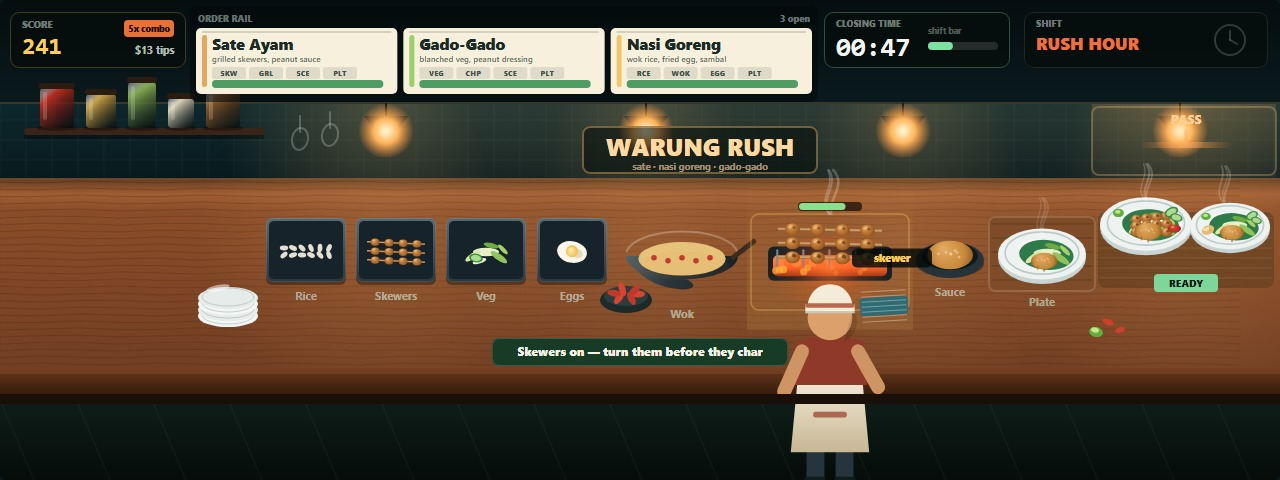
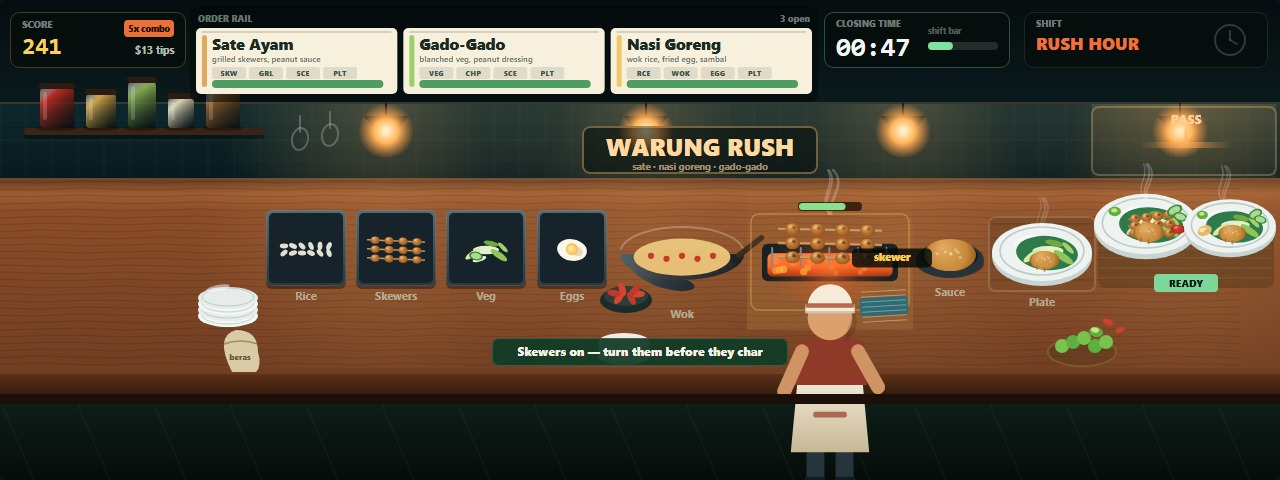
Closer cover camera, denser counter, bigger plates

diff --git a/game/src/kitchen.js b/game/src/kitchen.js
@@ -151,7 +151,7 @@ export function partsOf(state) {
 
 export function drawScene(c, state, t, opts = {}) {
   drawHeader(c);
-  drawWall(c, t);
+  drawWall(c, t, opts);
   drawCounter(c, state, t);
   drawFloor(c);
   drawChef(c, state, t, opts);
@@ -170,7 +170,7 @@ function drawHeader(c) {
   c.fillRect(0, LAYOUT.bandBottom - 2, 1280, 2);
 }
 
-function drawWall(c, t) {
+function drawWall(c, t, opts = {}) {
   const y0 = LAYOUT.bandBottom;
   const h = LAYOUT.wallBottom - y0;
   const wg = c.createLinearGradient(0, y0, 0, LAYOUT.wallBottom);
@@ -233,8 +233,8 @@ function drawWall(c, t) {
     c.fill();
   }
 
-  // hand-painted name over the wok
-  paintSign(c, 700, 150, 236, 'WARUNG RUSH');
+  // hand-painted name over the wok (skipped on a zoomed frame, where the rail covers it)
+  if (!opts.zoom) paintSign(c, 700, 150, 236, 'WARUNG RUSH');
   utensil(c, 300, 132);
   utensil(c, 330, 128);
 }
@@ -345,6 +345,43 @@ function drawFloor(c) {
 
 
 function drawProps(c, t) {
+  // the front band: a rice sack, a lime basket, a bowl stack and a hanging ladle
+  c.fillStyle = '#d9cba6';
+  c.beginPath();
+  c.moveTo(232, 372);
+  c.quadraticCurveTo(214, 336, 236, 330);
+  c.quadraticCurveTo(258, 330, 258, 352);
+  c.quadraticCurveTo(262, 366, 256, 372);
+  c.closePath();
+  c.fill();
+  c.strokeStyle = 'rgba(120,95,60,0.6)';
+  c.lineWidth = 1.5;
+  c.beginPath();
+  c.moveTo(224, 344);
+  c.quadraticCurveTo(240, 338, 258, 344);
+  c.stroke();
+  label(c, 'beras', 240, 360, { size: 8, weight: 800, color: '#6b5a3a', align: 'center' });
+  // lime basket
+  c.strokeStyle = '#8a5f2a';
+  c.lineWidth = 2;
+  c.beginPath();
+  c.ellipse(1082, 352, 34, 14, 0, 0, Math.PI * 2);
+  c.stroke();
+  c.fillStyle = 'rgba(80,55,25,0.35)';
+  c.fill();
+  for (let i = 0; i < 5; i++) {
+    c.fillStyle = i % 2 ? '#5fae42' : '#79c24e';
+    c.beginPath();
+    c.arc(1062 + i * 11, 346 - (i % 3) * 4, 7, 0, Math.PI * 2);
+    c.fill();
+  }
+  // stack of bowls
+  for (let i = 0; i < 3; i++) {
+    c.fillStyle = i % 2 ? '#e8ddd0' : '#f3ece2';
+    c.beginPath();
+    c.ellipse(624, 356 - i * 7, 26, 9, 0, 0, Math.PI * 2);
+    c.fill();
+  }
   // a bowl of chilies
   c.fillStyle = '#1d2a2a';
   c.beginPath();
@@ -428,12 +465,12 @@ function drawStation(c, s, state, t) {
 
   const hideLabel = state.chef && Math.abs(state.chef.x - s.x) < 74;
   if (s.kind === 'tray') {
-    tray(c, s.x - s.w / 2, yTop + 18, s.w, 64, s.ing, t);
+    tray(c, s.x - s.w / 2, yTop + 10, s.w, 76, s.ing, t);
     if (!hideLabel) label(c, s.name, s.x, yTop + 100, { size: 11, color: near ? PAL.gold : 'rgba(215,230,220,0.6)', align: 'center', weight: 700 });
   }
 
   if (s.kind === 'wok') {
-    wok(c, s.x, yTop + 56, 56, { heat: state.cooking && state.cooking.station === s.id ? 1 : 0.2, contents: state.wokContents !== false });
+    wok(c, s.x, yTop + 54, 62, { heat: state.cooking && state.cooking.station === s.id ? 1 : 0.2, contents: state.wokContents !== false });
     if (state.cooking && state.cooking.station === s.id) {
       steam(c, s.x, yTop + 26, t, 1.2, 0.45);
       sparks(c, s.x, yTop + 30, t, 5);
@@ -442,7 +479,7 @@ function drawStation(c, s, state, t) {
   }
 
   if (s.kind === 'grill') {
-    grill(c, s.x, yTop + 54, 62, { t });
+    grill(c, s.x, yTop + 52, 68, { t });
     emberGlow(c, s.x, yTop + 70, 78, t);
     // three skewers lying across the grate, close enough to read at thumbnail size
     for (let i = 0; i < 3; i++) {
@@ -465,7 +502,7 @@ function drawStation(c, s, state, t) {
     c.beginPath();
     c.ellipse(s.x, yTop + 56, 28, 14, 0, 0, Math.PI * 2);
     c.fill();
-    peanutSauce(c, s.x, yTop + 55, 23);
+    peanutSauce(c, s.x, yTop + 55, 26);
     if (!hideLabel) label(c, 'Sauce', s.x, yTop + 96, { size: 11, color: near ? PAL.gold : 'rgba(215,230,220,0.6)', align: 'center', weight: 700 });
   }
 
@@ -486,7 +523,7 @@ function drawStation(c, s, state, t) {
     rr(c, s.x - 53, yTop + 17, 106, 74, 6);
     c.stroke();
     if (state.plate.items.length > 0 || state.hand === 'plate') {
-      plated(c, s.x, yTop + 54, 44, partsOf(state));
+      plated(c, s.x, yTop + 52, 50, partsOf(state));
       if (state.plate.burnt) {
         c.fillStyle = 'rgba(25,12,5,0.5)';
         c.beginPath();
@@ -551,8 +588,8 @@ function passAlcove(c, state, t) {
     c.lineTo(x + 86, LAYOUT.counterTop + 40 + i * 10);
     c.stroke();
   }
-  plated(c, x - 40, LAYOUT.counterTop + 46, 46, ready.includes('satay') ? { satay: 3, sauce: true, garnish: true, sambal: true } : { rice: true });
-  plated(c, x + 44, LAYOUT.counterTop + 48, 40, ready.includes('gado') ? { veg: true, sauce: true, krupuk: true, garnish: true } : {});
+  plated(c, x - 40, LAYOUT.counterTop + 46, 52, ready.includes('satay') ? { satay: 3, sauce: true, garnish: true, sambal: true } : { rice: true });
+  plated(c, x + 44, LAYOUT.counterTop + 48, 46, ready.includes('gado') ? { veg: true, sauce: true, krupuk: true, garnish: true } : {});
   steam(c, x - 40, LAYOUT.counterTop + 22, t, 0.9, 0.3);
   steam(c, x + 38, LAYOUT.counterTop + 24, t + 1.4, 0.9, 0.24);
   c.fillStyle = 'rgba(126,224,161,0.94)';

diff --git a/game/src/main.js b/game/src/main.js
@@ -13,6 +13,10 @@ const ctx = canvas.getContext('2d', { alpha: false });
 const params = new URLSearchParams(location.search);
 const shotName = params.get('shot');
 const seed = Number(params.get('seed') || 7) || 7;
+const zoom = Number(params.get('zoom') || 1) || 1;
+const fx = Number(params.get('fx') || 640) || 640;
+const fy = Number(params.get('fy') || 250) || 250;
+const dy = Number(params.get('dy') || 0) || 0;
 
 const state = new Shift(seed);
 const chef = { x: 620, facing: 1, walking: false, carry: null };
@@ -188,7 +192,17 @@ function frame(now) {
   }
 
   ctx.clearRect(0, 0, 1280, 480);
-  drawScene(ctx, state, clockT, { shot: shotName });
+  if (zoom !== 1) {
+    // a closer camera for a staged screenshot: the world is drawn larger, the HUD stays legible
+    ctx.save();
+    ctx.translate(640, 240 + dy);
+    ctx.scale(zoom, zoom);
+    ctx.translate(-fx, -fy);
+    drawScene(ctx, state, clockT, { shot: shotName, zoom });
+    ctx.restore();
+  } else {
+    drawScene(ctx, state, clockT, { shot: shotName });
+  }
   drawHud(ctx, state, clockT);
   requestAnimationFrame(frame);
 }
